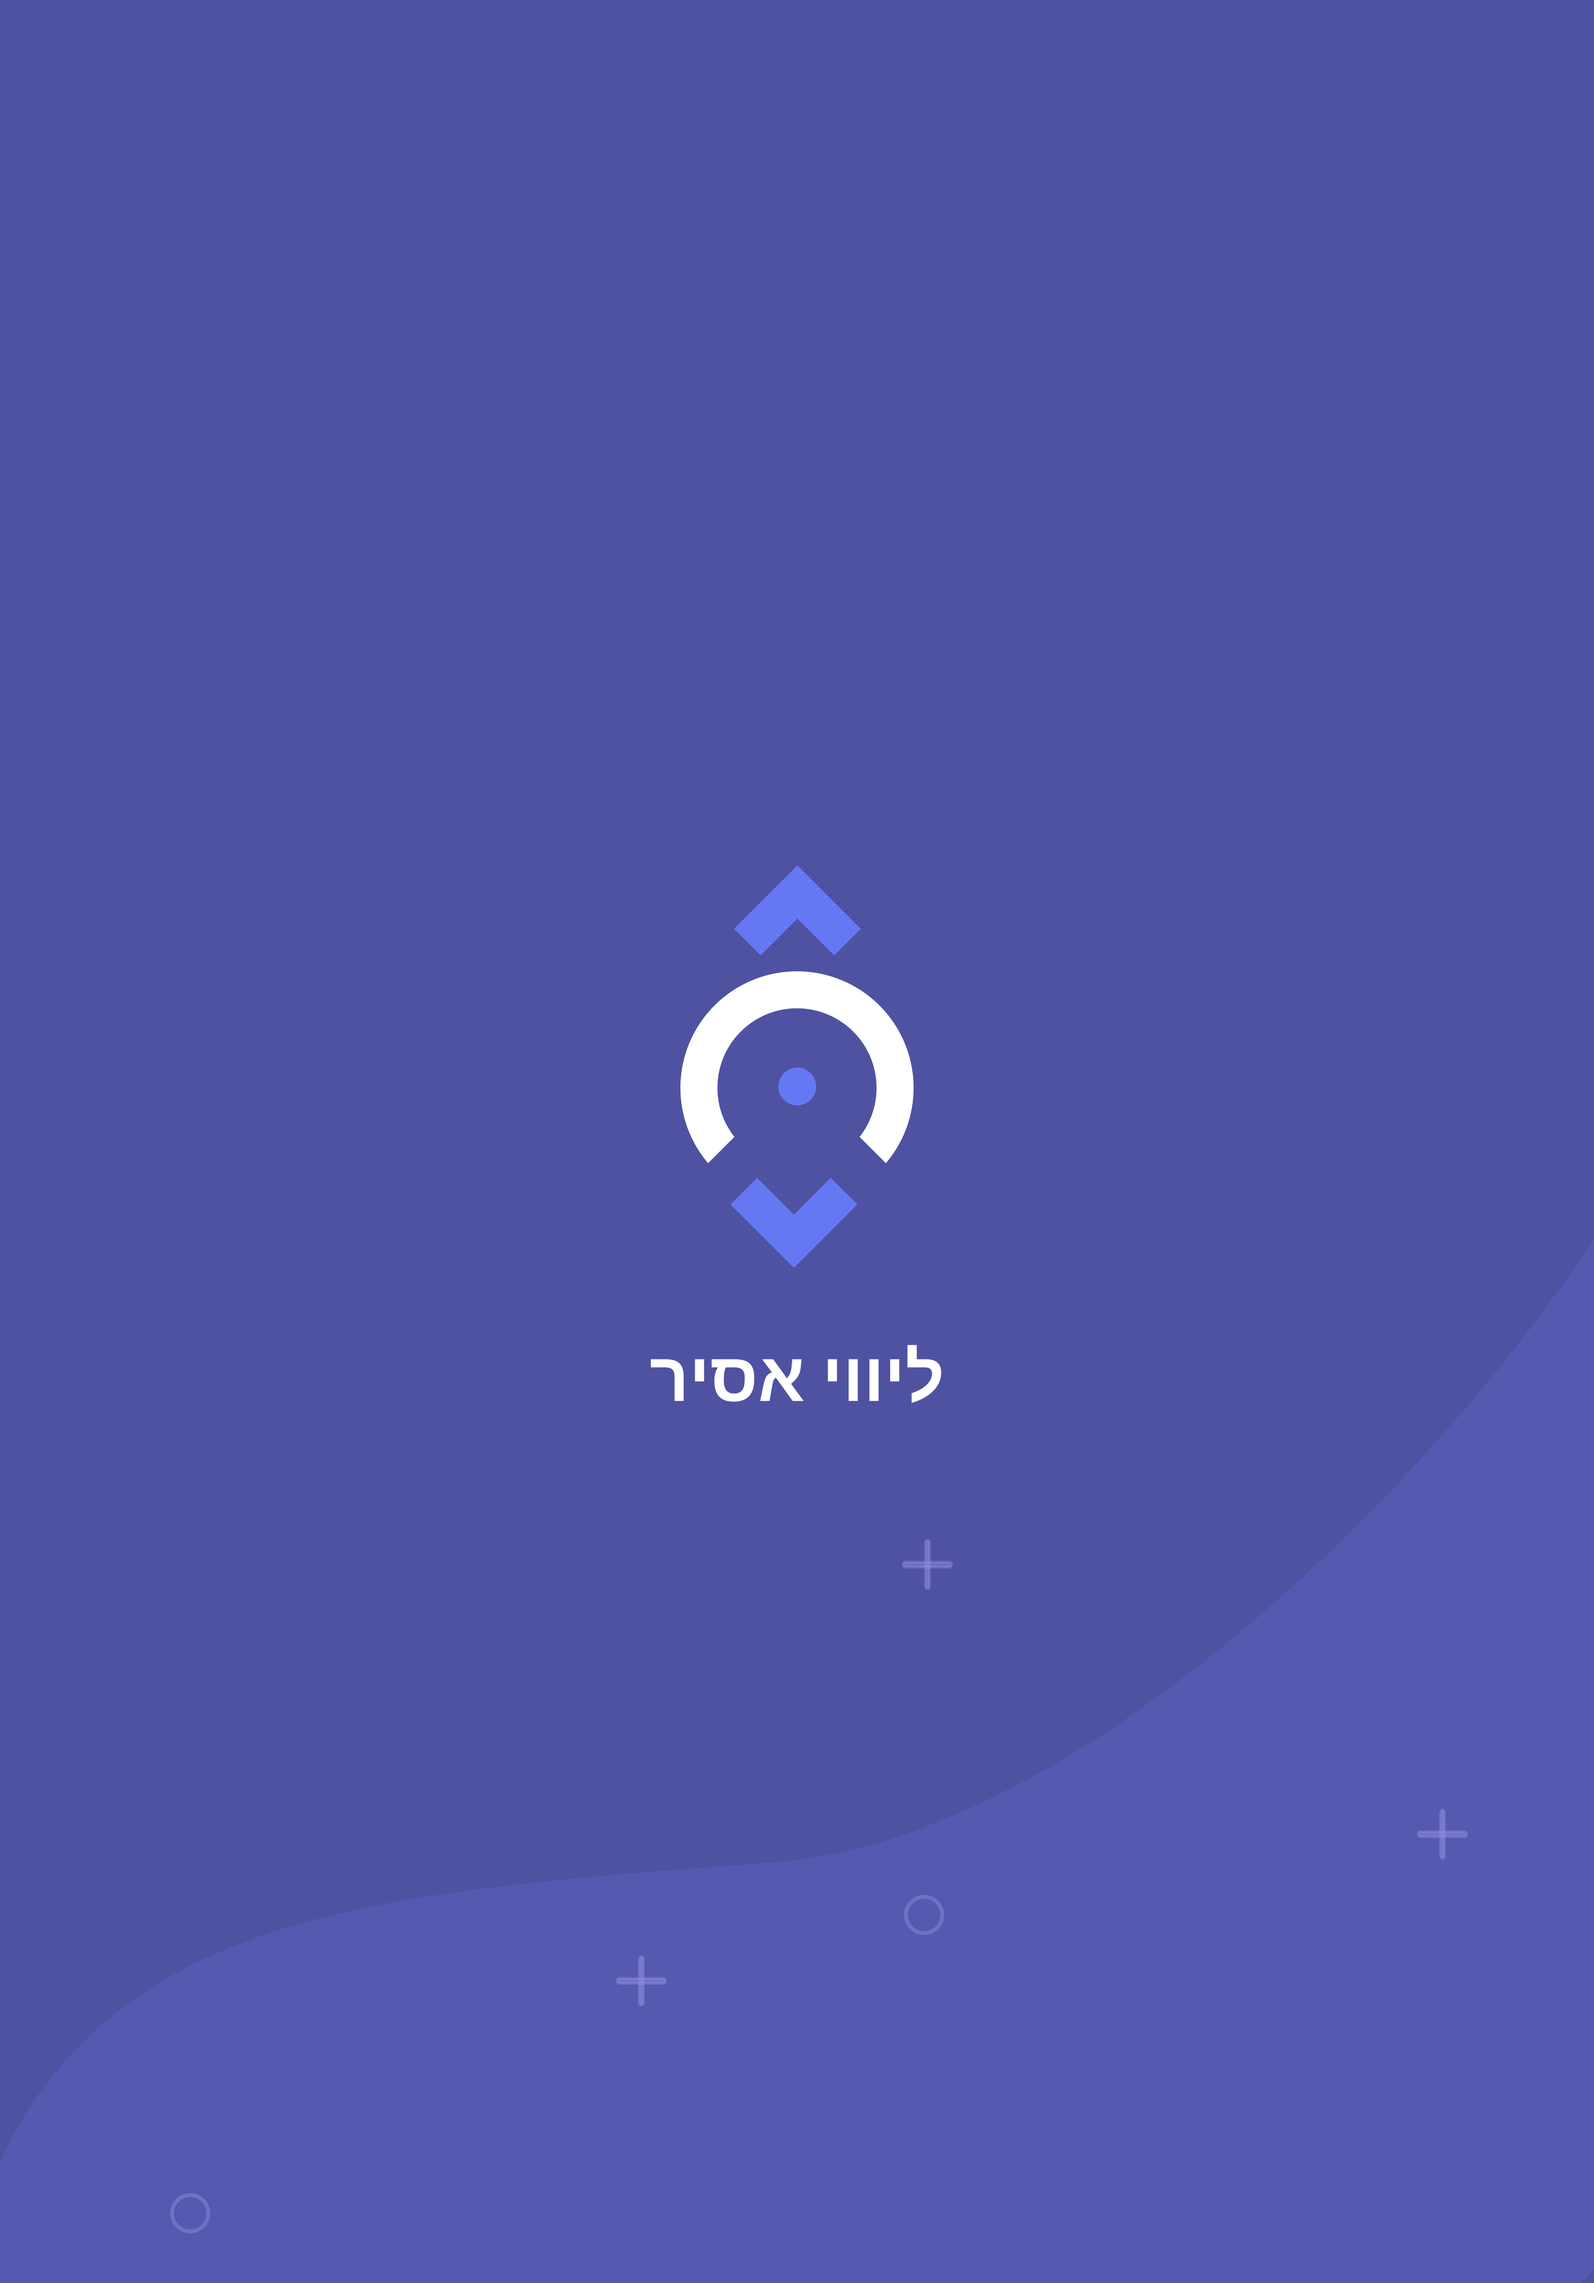
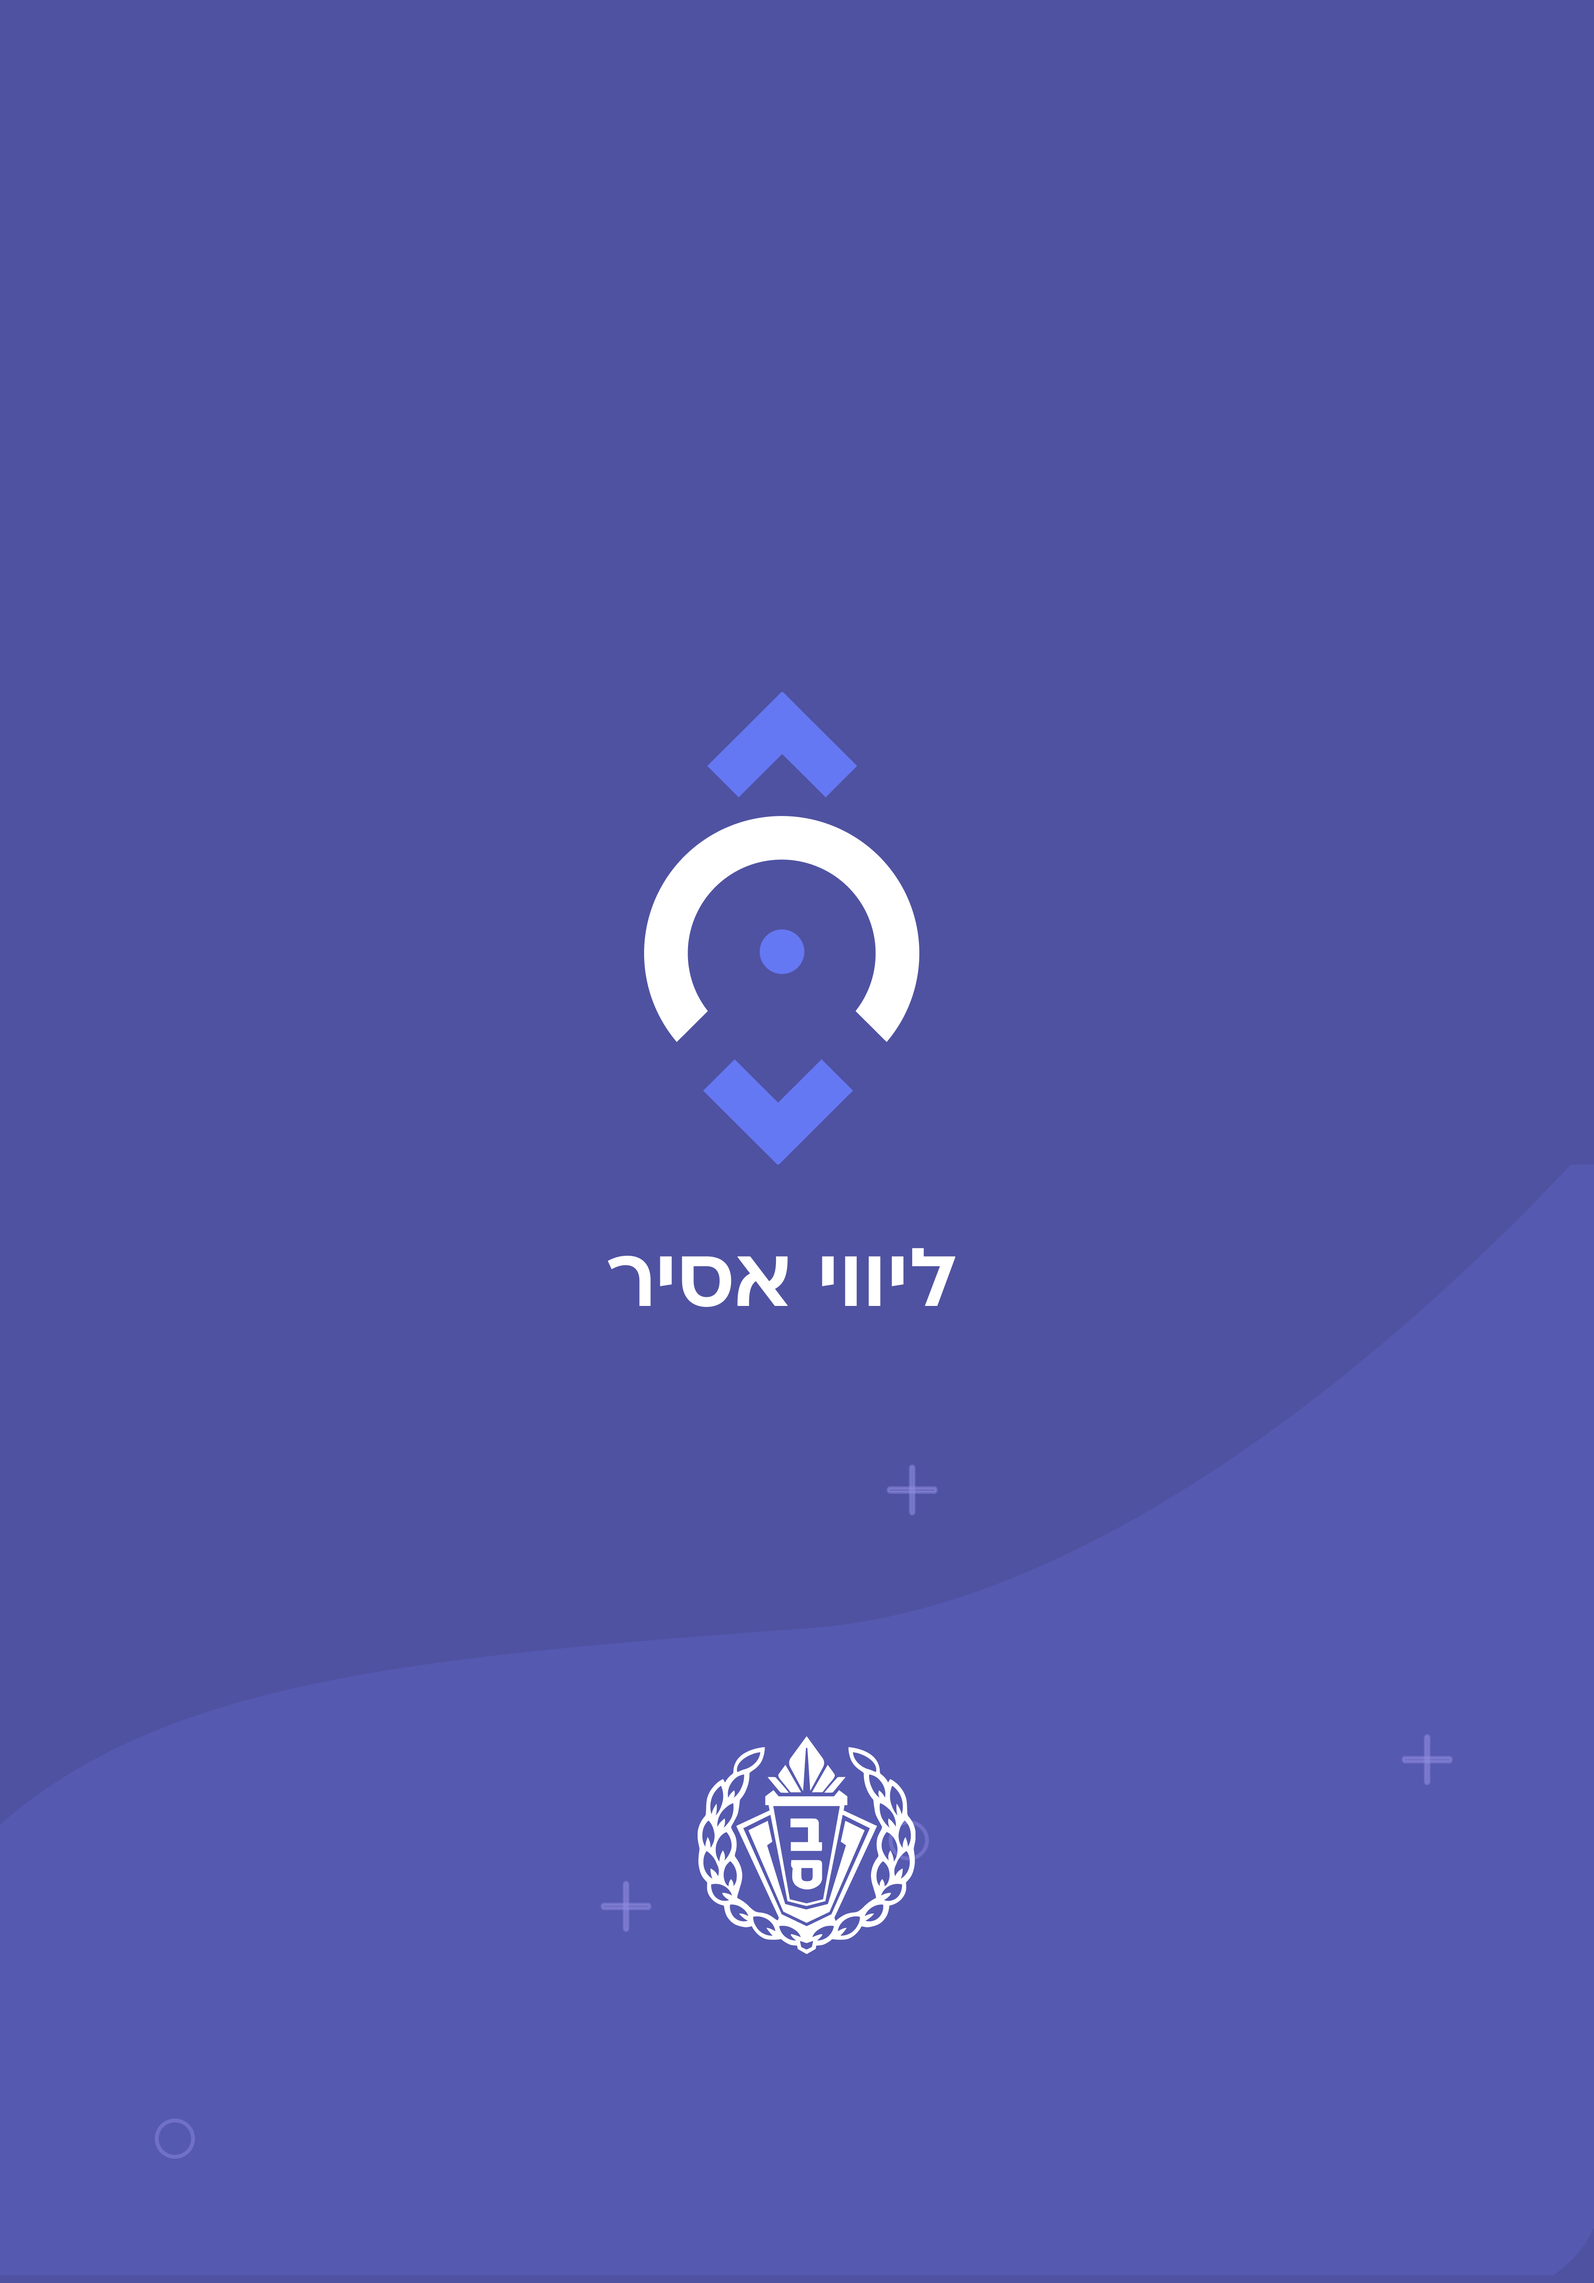
add more images

diff --git a/src/ImageSlider.js b/src/ImageSlider.js
@@ -1,84 +1,5 @@
-// import React, { useState } from 'react';
-
-// function ImageSlider() {
-//     // יצירת סטייט למעקב אחרי התמונה הנוכחית
-//     const [currentImageIndex, setCurrentImageIndex] = useState(0);
-
-
-//     const images = [
[6 lines of base64/hex data omitted]
-//     ];
-
-
-
-
-
-//     // פונקציה למעבר לתמונה הבאה
-//     const goToNextImage = () => {
-//         if (currentImageIndex < images.length - 1) {
-//             setCurrentImageIndex(currentImageIndex + 1); // מעבר לתמונה הבאה
-//         }
-//     };
-
-//     // פונקציה למעבר לתמונה הקודמת
-//     const goToPreviousImage = () => {
-//         if (currentImageIndex > 0) {
-//             setCurrentImageIndex(currentImageIndex - 1); // מעבר לתמונה הקודמת
-//         }
-//     };
-
-//     return (
-//         <div
-//             style={{
-//                 position: 'relative',
-//                 height: '100vh',
-//                 backgroundImage: `url(${images[currentImageIndex]})`,
-//                 backgroundSize: 'cover',
-//                 backgroundPosition: 'center',
-//                 display: 'flex',
-//                 justifyContent: 'center',
-//                 alignItems: 'center',
-//             }}
-//         >
-//             {/* חלק שמאלי - לחיצה על חצי שמאלי למעבר לתמונה הקודמת */}
-//             <div
-//                 onClick={goToPreviousImage}
-//                 style={{
-//                     position: 'absolute',
-//                     top: 0,
-//                     left: 0,
-//                     width: '50%',
-//                     height: '100%',
-//                     cursor: 'pointer',
-//                 }}
-//             ></div>
-
-//             {/* חלק ימני - לחיצה על חצי ימני למעבר לתמונה הבאה */}
-//             <div
-//                 onClick={goToNextImage}
-//                 style={{
-//                     position: 'absolute',
-//                     top: 0,
-//                     right: 0,
-//                     width: '50%',
-//                     height: '100%',
-//                     cursor: 'pointer',
-//                 }}
-//             ></div>
-//         </div>
-//     );
-// }
-
-// export default ImageSlider;
-
 
 import React, { useState } from 'react';
-import Navbar from './Navbar'; // Navbar בתחתית
 
 
 function ImageSlider() {
@@ -87,33 +8,18 @@ function ImageSlider() {
 
     const images = [
         {
-            image: "pages/02.png",
+            image: "pages/FrameAzik1.png",
+            url: "",
+            isIframe: false
+        },
+        {
+            image: "pages/FrameAzik1.png",
             url: "https://NatiShenker.github.io/face",
             isIframe: true
         },
         {
-            image: "pages/02.png",
-            url: "https://natitok.github.io/digitalForm/",
-            isIframe: true
-        },
-        {
-            image: "pages/02.png",
-            url: "https://www.example.com/3",
-            isIframe: false
-        },
-        {
-            image: "pages/02.png",
-            url: "./images",
-            isIframe: false
-        },
-        {
-            image: "pages/02.png",
-            url: "https://www.example.com/5",
-            isIframe: false
-        },
-        {
-            image: "pages/02.png",
-            url: "https://www.example.com/6",
+            image: "pages/FrameCherum.png",
+            url: "",
             isIframe: false
         },
     ];
@@ -172,31 +78,20 @@ function ImageSlider() {
                 }}
             ></div>
 
-            {/* הצגת התמונה הנוכחית כקישור
-            <a href={images[currentImageIndex].url} target="_blank" rel="noopener noreferrer">
-                <img
-                    src={images[currentImageIndex].image}
-                    alt="Slide"
-                    style={{ width: '100%', height: '100%', objectFit: 'cover' }}
-                />
-            </a> */}
             {
 
                 images[currentImageIndex].isIframe && <iframe
                     src={images[currentImageIndex].url}
                     title="External Content"
                     style={{
-                        width: "30%",
-                        height: "30%",
+                        width: "70%",
+                        height: "60%",
                         border: "none",
                         borderRadius: "8px",
                     }}
                 />
             }
 
-
-            {/* Navbar בתחתית */}
-            {/* <Navbar /> */}
         </div>
     );
 }

diff --git a/src/SecondPage.js b/src/SecondPage.js
@@ -10,27 +10,27 @@ function SecondPage() {
     // מערך של אובייקטים, כל אובייקט מכיל את קישור התמונה ו-URL יעד
     const images = [
         {
-            imgUrl: "pages/10.png",
+            imgUrl: "pages/iconCherum.png",
             link: "https://NatiShenker.github.io/face"
         },
         {
-            imgUrl: "pages/10.png",
-            link: "https://natitok.github.io/digitalForm/"
-        },
-        {
-            imgUrl: "pages/10.png",
-            link: "https://www.example.com/3"
-        },
-        {
-            imgUrl: "pages/10.png",
+            imgUrl: "pages/iconAzik.png",
             link: "./images"
         },
         {
-            imgUrl: "pages/10.png",
-            link: "https://www.example.com/5"
+            imgUrl: "pages/iconSikun.png",
+            link: "https://natitok.github.io/digitalForm/"
         },
         {
-            imgUrl: "pages/10.png",
+            imgUrl: "pages/iconEranut.png",
+            link: "https://NatiShenker.github.io/face"
+        },
+        {
+            imgUrl: "pages/iconTofes.png",
+            link: "https://natitok.github.io/digitalForm/"
+        },
+        {
+            imgUrl: "pages/iconProfil.png",
             link: "https://www.example.com/6"
         },
     ];
@@ -39,7 +39,7 @@ function SecondPage() {
         <div
             style={{
                 height: "100vh",
-                backgroundImage: `url("pages/02.png")`,
+                backgroundImage: `url("pages/FrameLivuyAsir.png")`,
                 backgroundSize: "cover",
                 backgroundPosition: "center",
                 display: "flex",

diff --git a/public/index.html b/public/index.html
@@ -9,12 +9,11 @@
       name="description"
       content="Web site created using create-react-app"
     />
-    <link rel="apple-touch-icon" href="%PUBLIC_URL%/logo192.png" />
     <!--
       manifest.json provides metadata used when your web app is installed on a
       user's mobile device or desktop. See https://developers.google.com/web/fundamentals/web-app-manifest/
     -->
-    <link rel="manifest" href="%PUBLIC_URL%/manifest.json" />
+    <!-- <link rel="manifest" href="%PUBLIC_URL%/manifest.json" /> -->
     <!--
       Notice the use of %PUBLIC_URL% in the tags above.
       It will be replaced with the URL of the `public` folder during the build.
@@ -24,7 +23,7 @@
       work correctly both with client-side routing and a non-root public URL.
       Learn how to configure a non-root public URL by running `npm run build`.
     -->
-    <title>React App</title>
+    <title>ליווי אסיר</title>
   </head>
   <body>
     <noscript>You need to enable JavaScript to run this app.</noscript>

diff --git a/src/Navbar.js b/src/Navbar.js
@@ -10,9 +10,9 @@ function Navbar() {
       style={{
         position: "fixed", // התמונה תהיה בתחתית המסך
         bottom: 0,
-        left: 0,
+        // left: 0,
         width: "100%", // תמלא את הרוחב של המסך
-        backgroundColor: "#333", // צבע רקע כהה
+        // backgroundColor: "#333", // צבע רקע כהה
         padding: "10px 20px",
         display: "flex",
         justifyContent: "center", // ניישר את התמונה במרכז

diff --git a/src/App.css b/src/App.css
@@ -1,4 +1,4 @@
-/* הוספת סגנונות כלליים */
+הוספת סגנונות כלליים
 * {
   margin: 0;
   padding: 0;
@@ -17,3 +17,4 @@ body {
   font-family: Arial, sans-serif;
   overflow: hidden; /* מונע גלילה */
 }
+

diff --git a/src/ExternalPage.js b/src/ExternalPage.js
@@ -36,3 +36,4 @@ function ExternalPage() {
 }
 
 export default ExternalPage;
+
